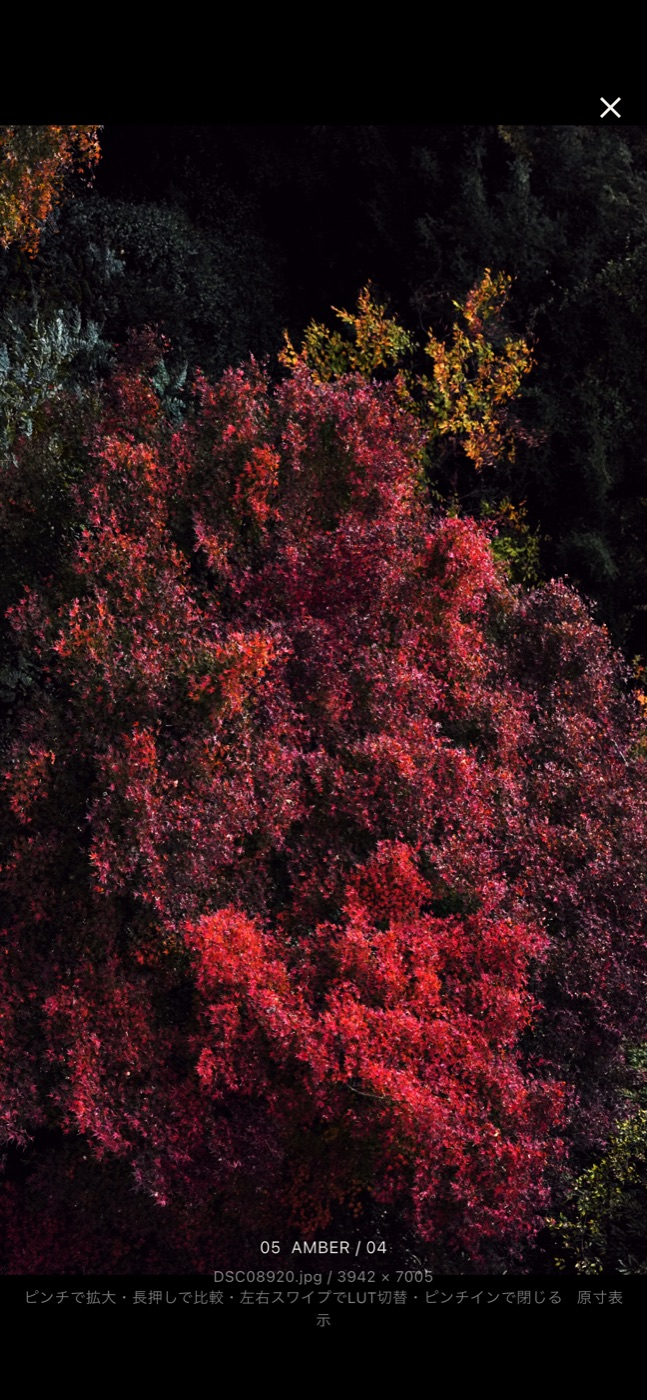
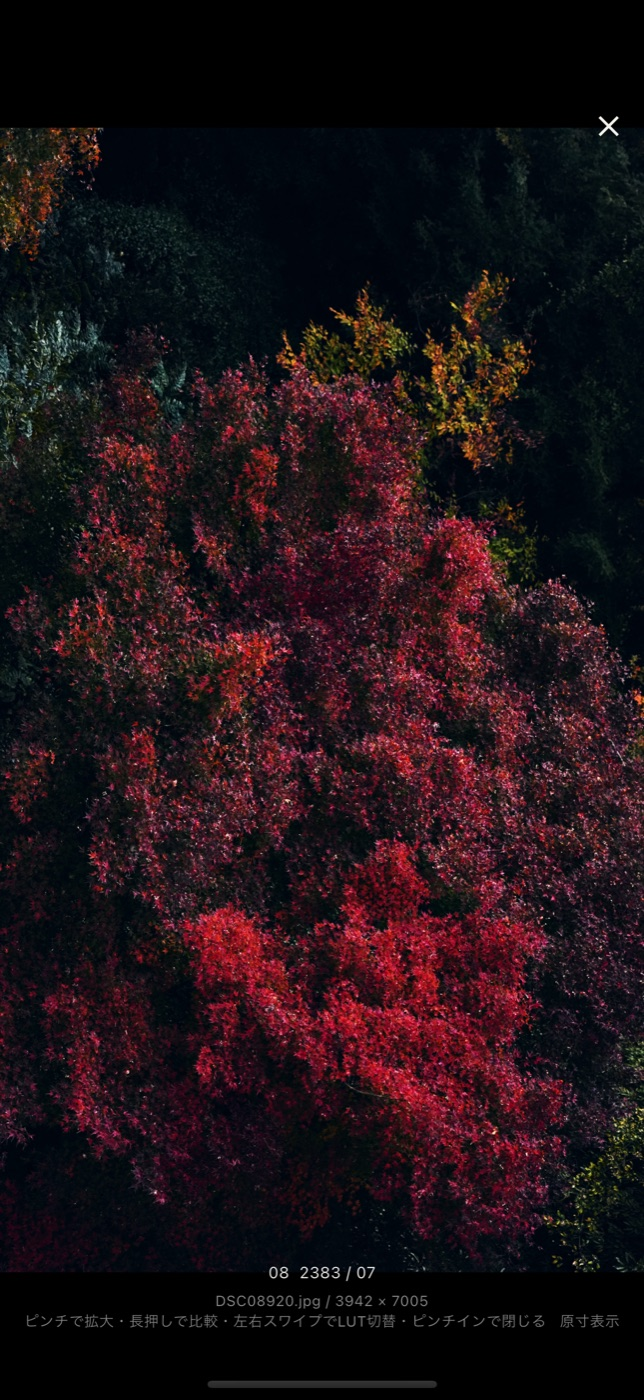
POCKET COLOR を App Store 配信中に更新し、リンク・画面・アイコン・紹介文を最新版にする

diff --git a/index.html b/index.html
@@ -81,7 +81,11 @@
       "name": "POCKET COLOR",
       "applicationCategory": "PhotographyApplication",
       "operatingSystem": "iOS, iPadOS",
-      "description": "フィルムの色と粒子で仕上げる、写真・動画のためのiOSアプリ。RAW現像、マスク補正、多重露光、動画編集、ルックを当てたままの撮影まで、すべて端末の中だけで完結します。",
+      "description": "映画用フィルムを模した10種のルックと、物理から作る粒子で仕上げる、写真・動画のためのiOSアプリ。RAW現像、マスク補正、多重露光、動画編集、ルックを当てたままの撮影まで、すべて端末の中だけで完結します。",
+      "url": "https://apps.apple.com/jp/app/pocket-color/id6816624728",
+      "downloadUrl": "https://apps.apple.com/jp/app/pocket-color/id6816624728",
+      "datePublished": "2026-10-20",
+      "offers": {"@type": "Offer", "price": "0", "priceCurrency": "JPY"},
       "image": "https://tamagoyasanllc.com/assets/pocket-color-icon.png",
       "publisher": {"@id": "https://tamagoyasanllc.com/#organization"}
     }
@@ -167,15 +171,15 @@
       </ul>
 
       <div class="cards">
-        <a class="card rise" data-kind="app build" href="https://tamagoya-san.github.io/pocketcolor-lab-legal/legal/">
+        <a class="card rise" data-kind="app build" href="https://apps.apple.com/jp/app/pocket-color/id6816624728" target="_blank" rel="noopener">
           <span class="thumb thumb-app">
-            <img src="assets/pocket-color-full.jpg" alt="POCKET COLOR の全画面表示。紅葉を AMBER のルックで現像した写真" loading="lazy">
-            <img src="assets/pocket-color-look.jpg" alt="POCKET COLOR のルックを選ぶ画面" loading="lazy">
+            <img src="assets/pocket-color-full.jpg" alt="POCKET COLOR の全画面表示。紅葉を 2383 のルックで現像した写真" loading="lazy">
+            <img src="assets/pocket-color-look.jpg" alt="POCKET COLOR のルックを選ぶ画面。映画用フィルムを模したルックが並ぶ" loading="lazy">
           </span>
           <span class="chip">App</span>
           <strong>POCKET COLOR</strong>
-          <span class="desc">フィルムの色と粒子で仕上げる、写真・動画のためのiOSアプリ。RAW現像、マスク補正、多重露光、動画編集、ルックを当てたままの撮影まで、すべて端末の中だけで完結します。</span>
-          <span class="meta">iOS / iPadOS — 2026 — App Store 近日公開</span>
+          <span class="desc">映画用フィルムを模した10種のルックと、物理から作る粒子で仕上げる、写真・動画のためのiOSアプリ。RAW現像、マスク補正、多重露光、動画編集、ルックを当てたままの撮影まで、すべて端末の中だけで完結します。</span>
+          <span class="meta">iOS / iPadOS — 2026 — App Store で配信中 ↗</span>
         </a>
 
         <a class="card rise" data-kind="web build" href="https://verno-medical-science.com/" target="_blank" rel="noopener">

diff --git a/style.css b/style.css
@@ -152,7 +152,7 @@ a:hover [data-roll], button:hover [data-roll] { transform: translateY(-100%); }
 .thumb img { width: 100%; height: 100%; object-fit: cover; transition: transform 1.1s var(--ease); }
 .card:hover .thumb img { transform: scale(1.045); }
 .thumb-app { background: linear-gradient(160deg, #0d2c8f, #07123a); display: flex; gap: 6%; justify-content: center; align-items: center; }
-.thumb-app img { width: 27%; height: auto; aspect-ratio: 1284 / 2778; border-radius: 16px; box-shadow: 0 24px 50px rgba(0, 0, 0, .45); }
+.thumb-app img { width: 27%; height: auto; aspect-ratio: 1320 / 2868; border-radius: 16px; box-shadow: 0 24px 50px rgba(0, 0, 0, .45); }
 .thumb-app img + img { margin-top: 14%; }
 .thumb-top img { object-position: 50% 0; }
 .thumb-reel { display: grid; grid-template-columns: 1fr 1fr 1fr; gap: 3px; background: #000; }
